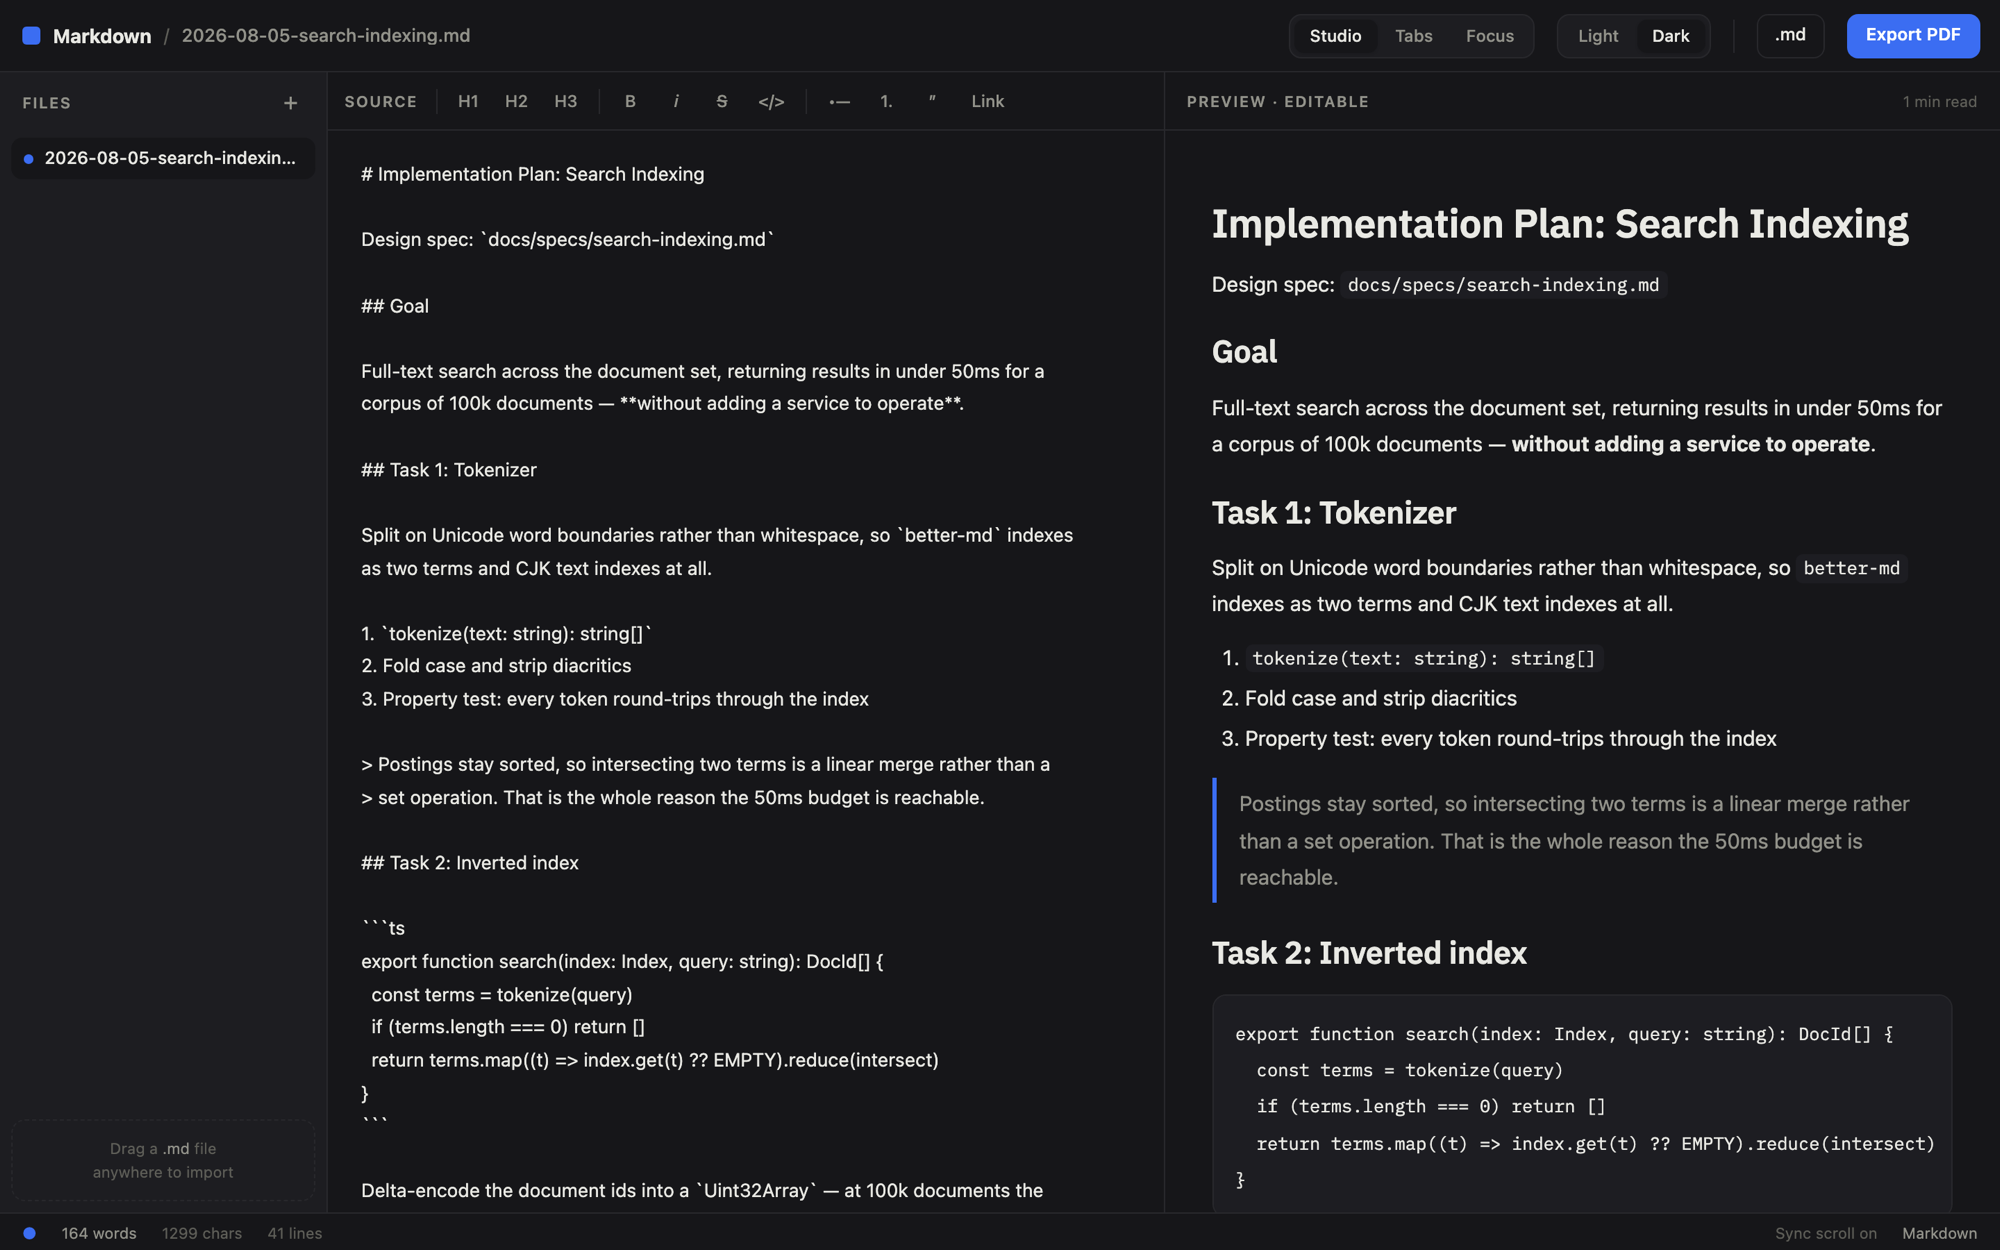
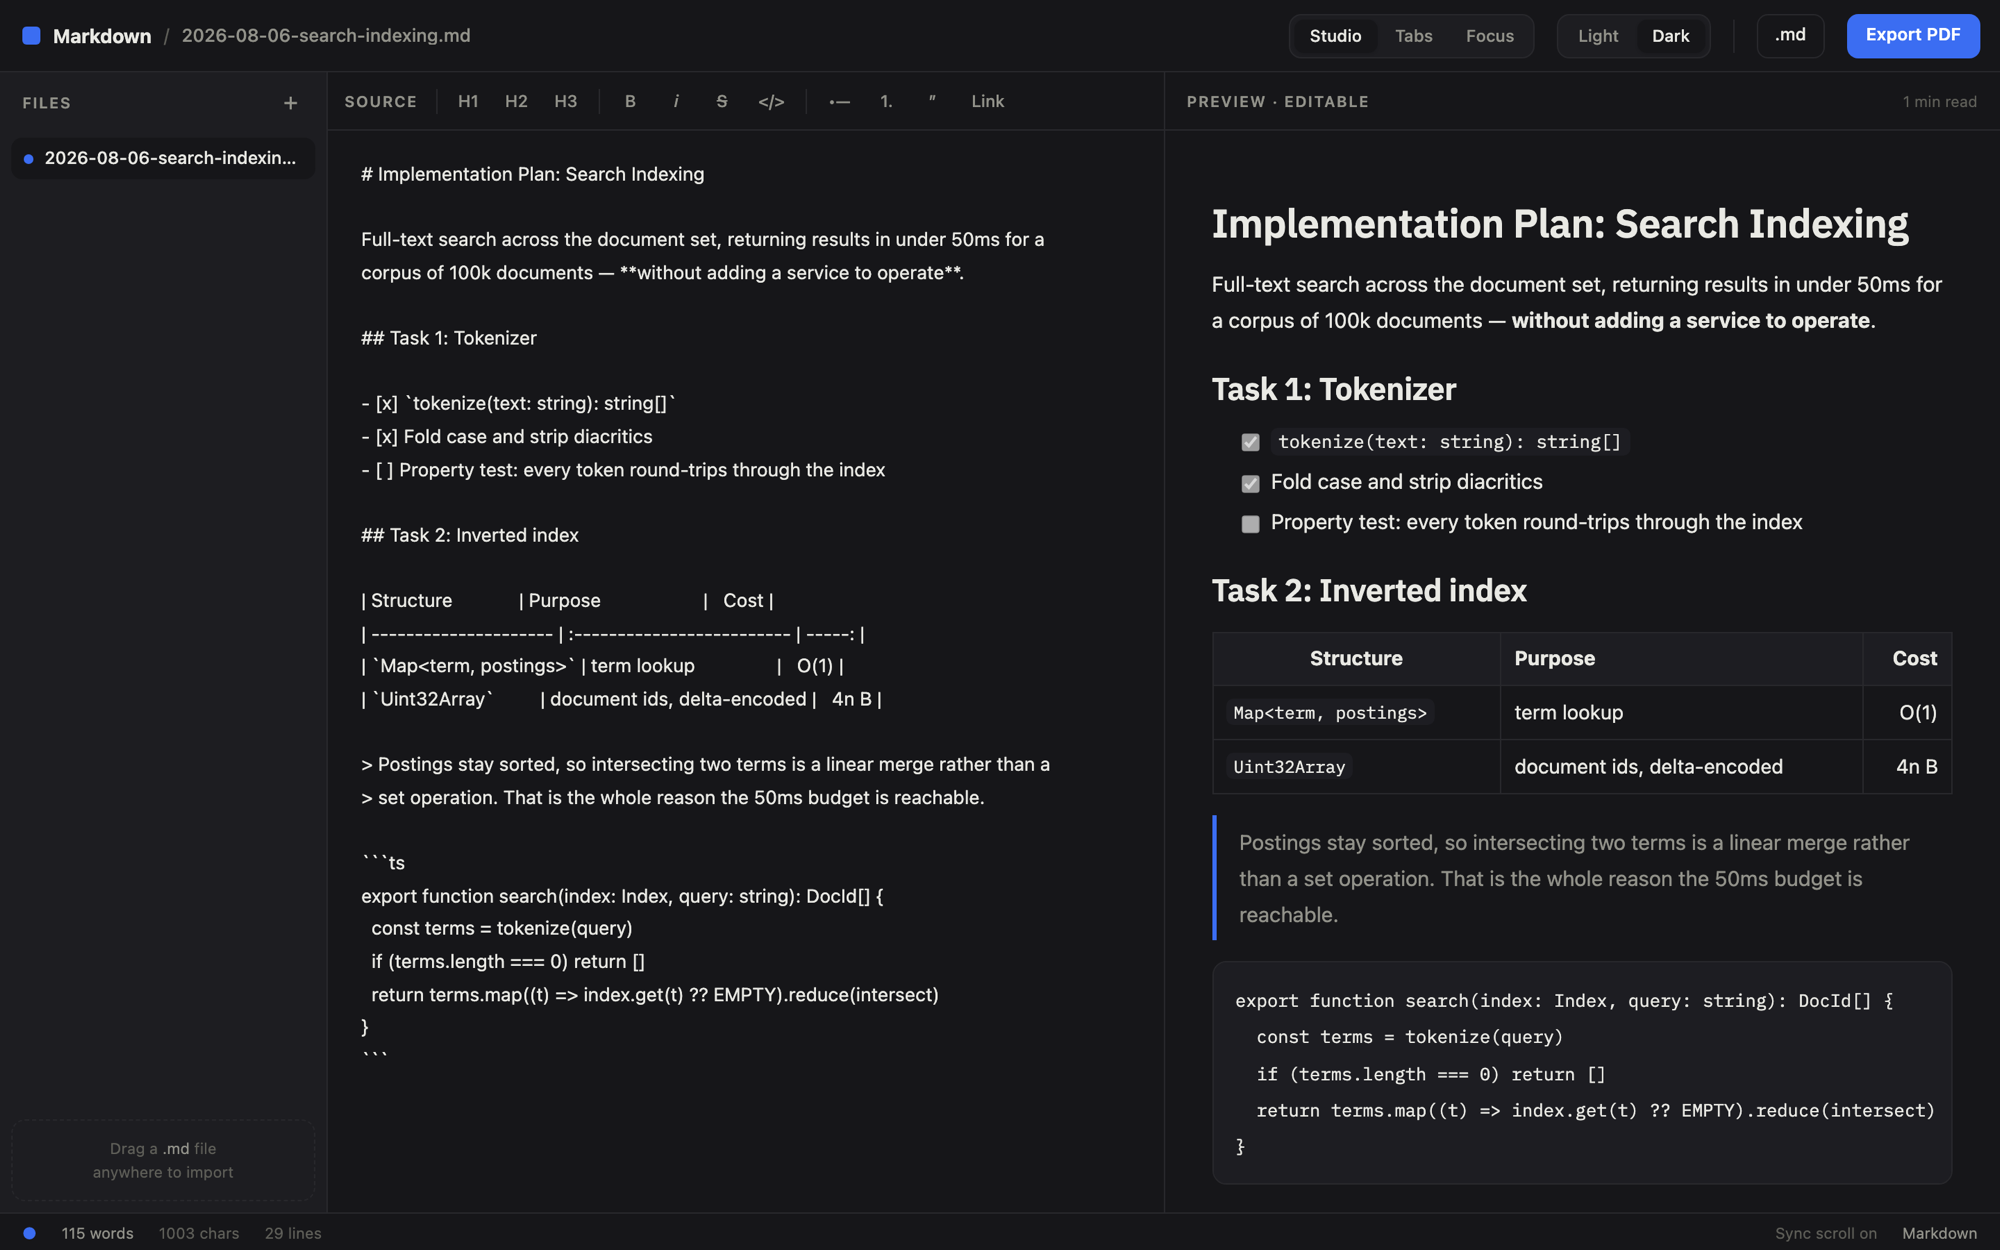
feat(markdown): render tables and task lists, both directions
The two constructs agent-written plans use most were the two the renderer did not
handle: a table collapsed into a paragraph of pipes, and `- [x]` showed literal
brackets. Built test-first — 14 tests written and watched fail before any of this
existed.

Tables follow GFM: a header row plus a delimiter row, which is also what
distinguishes a table from prose that happens to contain pipes. `| :-- | :-: |
--: |` sets per-column alignment. `\|` inside a cell is content, not a separator,
because without that a cell mentioning a pipe silently gains a column and shifts
every value after it. Ragged rows are padded rather than dropped — a short row in
a plan should still render.

Task list items get a real checkbox, `disabled` on purpose: the preview is
contenteditable, and a live checkbox would let a click change the DOM's checked
*property* while the `checked` attribute htmlToMd reads stays put, so the box
would flip on screen and snap back on the next render. Editing happens in the
source pane.

htmlToMd handles both, which is not optional here — the preview is editable, so a
construct that renders but does not serialise back is a data-loss bug, not a
cosmetic gap. Verified on the real thing rather than in isolation: typing into the
live preview forces a full re-serialise, and the table, its alignment, and both
checkbox states all survived the round trip.

One test corrected mid-flight rather than the code: the XSS assertion forbade the
[…]

diff --git a/src/lib/markdown.ts b/src/lib/markdown.ts
@@ -59,6 +59,67 @@ export function inlineMd(s: string): string {
   return s
 }
 
+/**
+ * Split a table row on unescaped pipes.
+ *
+ * `\|` is content, not a separator — without that a cell mentioning a pipe
+ * silently gains a column and shifts every value after it.
+ */
+function splitRow(line: string): string[] {
+  const cells: string[] = []
+  let cur = ''
+  for (let i = 0; i < line.length; i++) {
+    if (line[i] === '\\' && line[i + 1] === '|') {
+      cur += '|'
+      i++
+      continue
+    }
+    if (line[i] === '|') {
+      cells.push(cur)
+      cur = ''
+      continue
+    }
+    cur += line[i]
+  }
+  cells.push(cur)
+  // Outer pipes are optional decoration, so the empty cells they create are not
+  // columns. Only the outermost ones — `| | b |` keeps its empty first column.
+  if (cells.length > 1 && cells[0].trim() === '') cells.shift()
+  if (cells.length > 1 && cells[cells.length - 1].trim() === '') cells.pop()
+  return cells.map((c) => c.trim())
+}
+
+type Align = 'left' | 'center' | 'right' | null
+
+/**
+ * Read a delimiter row (`| :-- | :-: | --: |`) into per-column alignments, or
+ * null when the line is not one.
+ *
+ * The delimiter row is what separates a table from prose that happens to contain
+ * pipes, so this doubles as the detector.
+ */
+function delimiterAligns(line: string): Align[] | null {
+  if (!line.includes('-') || !line.includes('|')) return null
+  const cells = splitRow(line)
+  if (cells.length === 0) return null
+  const aligns: Align[] = []
+  for (const cell of cells) {
+    if (!/^:?-+:?$/.test(cell)) return null
+    const left = cell.startsWith(':')
+    const right = cell.endsWith(':')
+    aligns.push(left && right ? 'center' : right ? 'right' : left ? 'left' : null)
+  }
+  return aligns
+}
+
+/** A table begins with a header row followed by a matching delimiter row. */
+function tableAt(lines: string[], i: number): Align[] | null {
+  if (i + 1 >= lines.length || !lines[i].includes('|')) return null
+  const aligns = delimiterAligns(lines[i + 1])
+  if (aligns === null) return null
+  return splitRow(lines[i]).length === aligns.length ? aligns : null
+}
+
 export function mdToHtml(md: string): string {
   const lines = (md || '').replace(/\r\n/g, '\n').split('\n')
   let html = ''
@@ -133,6 +194,45 @@ export function mdToHtml(md: string): string {
         '</blockquote>'
       continue
     }
+    const aligns = tableAt(lines, i)
+    if (aligns !== null) {
+      const header = splitRow(lines[i])
+      i += 2
+      const body: string[][] = []
+      while (i < lines.length && lines[i].includes('|') && !/^\s*$/.test(lines[i])) {
+        body.push(splitRow(lines[i]))
+        i++
+      }
+      const cellStyle = (n: number, extra: string): string => {
+        const align = aligns[n]
+        return (
+          ` style="border:1px solid var(--border);padding:.4rem .6rem${extra}` +
+          (align === null ? '' : `;text-align:${align}`) +
+          '"'
+        )
+      }
+      html +=
+        '<table style="margin:.95rem 0;border-collapse:collapse;width:100%;font-size:.95em">' +
+        '<thead><tr>' +
+        header
+          .map((c, n) => `<th${cellStyle(n, ';background:var(--code-bg)')}>${inlineMd(c)}</th>`)
+          .join('') +
+        '</tr></thead><tbody>' +
+        body
+          .map(
+            (row) =>
+              '<tr>' +
+              // Ragged rows are padded rather than dropped: a short row in a plan
+              // should still render, not vanish.
+              aligns
+                .map((_, n) => `<td${cellStyle(n, '')}>${inlineMd(row[n] ?? '')}</td>`)
+                .join('') +
+              '</tr>'
+          )
+          .join('') +
+        '</tbody></table>'
+      continue
+    }
     if (/^\s*[-*+]\s+/.test(line)) {
       const ui: string[] = []
       while (i < lines.length && /^\s*[-*+]\s+/.test(lines[i])) {
@@ -145,7 +245,24 @@ export function mdToHtml(md: string): string {
         // Without it, bullets and numbers vanish — for two constructs the toolbar
         // has buttons for.
         '<ul style="margin:.6rem 0 .6rem 1.35rem;line-height:1.75;list-style:disc">' +
-        ui.map((t) => '<li style="margin:.2rem 0">' + inlineMd(t) + '</li>').join('') +
+        ui
+          .map((t) => {
+            const task = /^\[([ xX])\]\s+(.*)$/.exec(t)
+            if (task === null) return '<li style="margin:.2rem 0">' + inlineMd(t) + '</li>'
+            // `disabled` is deliberate. The preview is contenteditable, and a live
+            // checkbox would let a click change the DOM's checked *property* while
+            // the attribute htmlToMd reads stays put — the box would flip on screen
+            // and then snap back on the next render. Editing happens in the source.
+            return (
+              '<li style="margin:.2rem 0;list-style:none">' +
+              '<input type="checkbox" disabled' +
+              (task[1] === ' ' ? '' : ' checked') +
+              ' style="margin-right:.5rem;vertical-align:middle"/>' +
+              inlineMd(task[2]) +
+              '</li>'
+            )
+          })
+          .join('') +
         '</ul>'
       continue
     }
@@ -170,7 +287,10 @@ export function mdToHtml(md: string): string {
       !/^>\s?/.test(lines[i]) &&
       !/^\s*[-*+]\s+/.test(lines[i]) &&
       !/^\s*\d+\.\s+/.test(lines[i]) &&
-      !/^(-{3,}|\*{3,}|_{3,})\s*$/.test(lines[i])
+      !/^(-{3,}|\*{3,}|_{3,})\s*$/.test(lines[i]) &&
+      // Without this the paragraph buffer swallows a table that follows prose
+      // directly, header row and all.
+      tableAt(lines, i) === null
     ) {
       buf.push(lines[i])
       i++
@@ -246,10 +366,43 @@ export function htmlToMd(root: HTMLElement): string {
             .join('\n') +
           '\n\n'
         )
+      case 'table': {
+        const trs = Array.from(el.querySelectorAll('tr'))
+        if (trs.length === 0) return ''
+        const cellsOf = (tr: Element): Element[] => Array.from(tr.children)
+        // A pipe in a cell has to go back out escaped, or the next parse splits
+        // the column that this one just round-tripped correctly.
+        const row = (cells: Element[]): string =>
+          '| ' + cells.map((c) => kids(c).trim().replace(/\|/g, '\\|')).join(' | ') + ' |'
+        const head = cellsOf(trs[0])
+        const delim = head.map((c) => {
+          switch ((c as HTMLElement).style.textAlign) {
+            case 'left':
+              return ':--'
+            case 'center':
+              return ':-:'
+            case 'right':
+              return '--:'
+            default:
+              return '---'
+          }
+        })
+        const out = [row(head), '| ' + delim.join(' | ') + ' |']
+        for (const tr of trs.slice(1)) out.push(row(cellsOf(tr)))
+        return '\n' + out.join('\n') + '\n\n'
+      }
+      case 'input':
+        // Rendered by the ul case as the `[x]` marker; on its own it is not text.
+        return ''
       case 'ul': {
         let s = '\n'
         el.childNodes.forEach((li) => {
-          if ((li as HTMLElement).tagName === 'LI') s += '- ' + liText(li) + '\n'
+          if ((li as HTMLElement).tagName !== 'LI') return
+          const box = (li as HTMLElement).querySelector('input[type="checkbox"]')
+          // hasAttribute, not .checked: the box is disabled precisely so the
+          // attribute stays the source of truth.
+          const mark = box === null ? '' : box.hasAttribute('checked') ? '[x] ' : '[ ] '
+          s += '- ' + mark + liText(li) + '\n'
         })
         return s + '\n'
       }

diff --git a/src/lib/markdown.test.ts b/src/lib/markdown.test.ts
@@ -125,3 +125,110 @@ describe('htmlToMd', () => {
     expect(htmlToMd(div)).toBe(md)
   })
 })
+
+describe('tables', () => {
+  const simple = ['| Name | Role |', '| --- | --- |', '| Ada | Analyst |'].join('\n')
+
+  it('renders a pipe table as a real table', () => {
+    const html = mdToHtml(simple)
+    expect(html).toContain('<table')
+    expect(html).toContain('<th')
+    expect(html).toContain('Name')
+    expect(html).toContain('<td')
+    expect(html).toContain('Ada')
+  })
+
+  it('requires a delimiter row, so prose containing pipes stays a paragraph', () => {
+    // `a | b` in ordinary text must not become a table, or writing about pipes
+    // silently mangles the document.
+    const html = mdToHtml('choose a | b as the separator')
+    expect(html).not.toContain('<table')
+    expect(html).toContain('<p')
+  })
+
+  it('applies column alignment from the delimiter row', () => {
+    const html = mdToHtml(['| L | C | R |', '| :-- | :-: | --: |', '| 1 | 2 | 3 |'].join('\n'))
+    expect(html).toContain('text-align:left')
+    expect(html).toContain('text-align:center')
+    expect(html).toContain('text-align:right')
+  })
+
+  it('renders inline markdown inside cells', () => {
+    const html = mdToHtml(['| a |', '| --- |', '| **bold** |'].join('\n'))
+    expect(html).toContain('<strong>bold</strong>')
+  })
+
+  it('escapes cell content rather than trusting it', () => {
+    const div = document.createElement('div')
+    div.innerHTML = mdToHtml(['| a |', '| --- |', '| <img src=x onerror=alert(1)> |'].join('\n'))
+
+    // Asserted against the parsed DOM, not the string. The escaped form still
+    // *contains* "onerror=alert" as literal text, which is exactly the safe
+    // outcome — a substring check would fail on correct behaviour. What matters
+    // is that no element was created from it.
+    expect(div.querySelector('img')).toBeNull()
+    expect(div.querySelector('td')?.textContent).toBe('<img src=x onerror=alert(1)>')
+  })
+
+  it('honours an escaped pipe inside a cell', () => {
+    const html = mdToHtml(['| a | b |', '| --- | --- |', String.raw`| x \| y | z |`].join('\n'))
+    // Two columns, not three: the escaped pipe is content.
+    expect(html).toContain('x | y')
+    expect((html.match(/<td/g) ?? []).length).toBe(2)
+  })
+
+  it('serialises a table back to pipes', () => {
+    const div = document.createElement('div')
+    div.innerHTML = mdToHtml(simple)
+    expect(htmlToMd(div)).toBe(simple)
+  })
+
+  it('round-trips alignment', () => {
+    const md = ['| L | C | R |', '| :-- | :-: | --: |', '| 1 | 2 | 3 |'].join('\n')
+    const div = document.createElement('div')
+    div.innerHTML = mdToHtml(md)
+    expect(htmlToMd(div)).toBe(md)
+  })
+
+  it('round-trips a pipe inside a cell without splitting the column', () => {
+    const md = ['| a | b |', '| --- | --- |', String.raw`| x \| y | z |`].join('\n')
+    const div = document.createElement('div')
+    div.innerHTML = mdToHtml(md)
+    expect(htmlToMd(div)).toBe(md)
+  })
+})
+
+describe('task lists', () => {
+  it('renders checked and unchecked boxes', () => {
+    const html = mdToHtml('- [x] done\n- [ ] todo')
+    expect(html).toContain('type="checkbox"')
+    expect(html).toContain('checked')
+    // The literal brackets must be gone, not merely accompanied by a box.
+    expect(html).not.toContain('[x]')
+    expect(html).not.toContain('[ ]')
+  })
+
+  it('leaves an ordinary list item alone', () => {
+    const html = mdToHtml('- plain')
+    expect(html).not.toContain('type="checkbox"')
+    expect(html).toContain('list-style:disc')
+  })
+
+  it('renders inline markdown in the task text', () => {
+    expect(mdToHtml('- [ ] ship **it**')).toContain('<strong>it</strong>')
+  })
+
+  it('round-trips checked and unchecked items', () => {
+    const md = '- [x] done\n- [ ] todo'
+    const div = document.createElement('div')
+    div.innerHTML = mdToHtml(md)
+    expect(htmlToMd(div)).toBe(md)
+  })
+
+  it('does not turn a plain list into a task list on the way back', () => {
+    const md = '- one\n- two'
+    const div = document.createElement('div')
+    div.innerHTML = mdToHtml(md)
+    expect(htmlToMd(div)).toBe(md)
+  })
+})

diff --git a/public/site/index.html b/public/site/index.html
@@ -470,8 +470,9 @@
         <h2>What it is</h2>
         <p>
           better-md is two things that fit together. The first is a Markdown editor: edit the source
-          on the left or the rendered preview on the right, and both stay in sync. Three layouts,
-          light and dark themes, synced scrolling, export to Markdown or PDF.
+          on the left or the rendered preview on the right, and both stay in sync. Tables, task
+          lists, code blocks and quotes all render. Three layouts, light and dark themes, synced
+          scrolling, export to Markdown or PDF.
         </p>
         <p>
           The second is <code>better-md</code>, a command that opens real files from your machine in

diff --git a/README.md b/README.md
@@ -175,12 +175,16 @@ imported from arbitrary `.md` files by drag-and-drop, so `src/lib/markdown.ts` e
 interpolated text and attributes and blocks `javascript:`, `vbscript:` and non-image
 `data:` URLs. See `markdown.test.ts` for the XSS cases.
 
-## Not supported yet
+## What the renderer covers
 
-The Markdown renderer covers headings, emphasis, inline and fenced code, links, images,
-blockquotes, horizontal rules, and ordered and unordered lists. It does **not** yet render
-**tables** or **task lists** (`- [x]`) — both appear as literal text. Worth knowing, since
-agent-written plans use them often.
+Headings, emphasis, inline and fenced code, links, images, blockquotes, horizontal rules,
+ordered and unordered lists, **tables** (with column alignment and escaped `\|` in cells),
+and **task lists** (`- [x]`). Those last two matter because agent-written plans lean on
+them.
+
+Not handled: nested lists, reference-style links, footnotes, and setext headings. Raw HTML
+in a document is escaped rather than passed through — deliberately, since the preview is
+rendered with `innerHTML` (see [Security](#security)).
 
 ## Development
 
